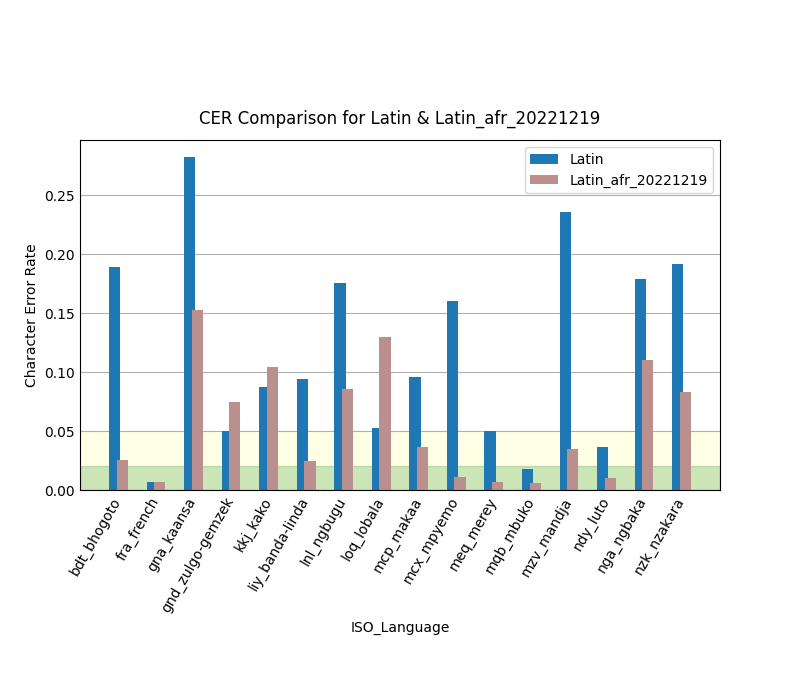
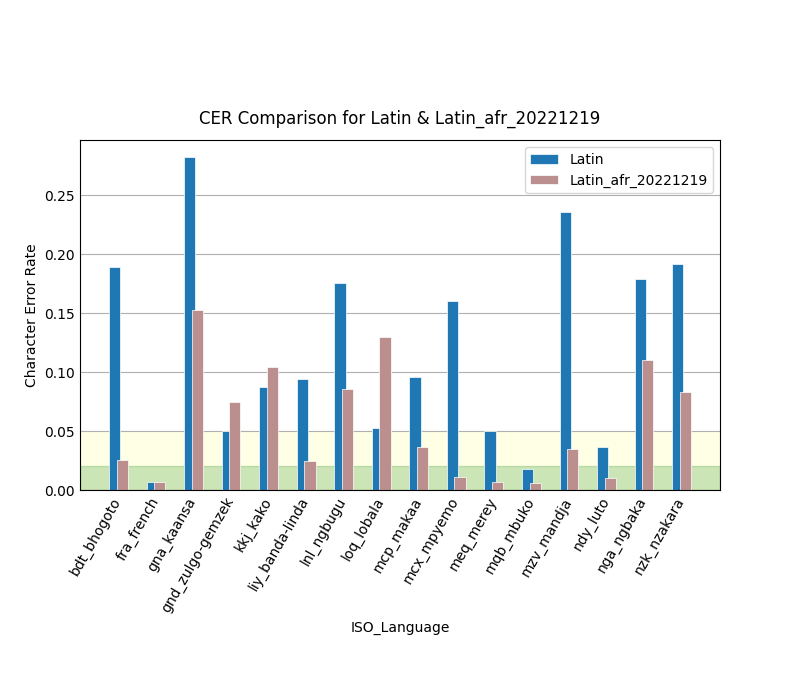
add linewidth & change image

diff --git a/scripts/show-chart.py b/scripts/show-chart.py
@@ -90,6 +90,7 @@ def build_3d_slices(data):
 def plot_bar2d(x, y, z, out_file, title, xlabel, ylabel):
     # Generate and format plot.
     bw = 0.3 # bar width
+    lw = 0.5 # line width
 
     fig, ax = plt.subplots(figsize=(8,7))
 
@@ -102,8 +103,8 @@ def plot_bar2d(x, y, z, out_file, title, xlabel, ylabel):
         lx = title.split('&')[0].split()[-1].strip()    # hack
         lz = title.split('&')[1].strip()                # hack
         plt.xticks(ind+bw/2, x, horizontalalignment='right', rotation=60)
-        ax.bar(ind-0.1, y, width=bw, edgecolor="w", linewidth=0, label=lx)
-        ax.bar(ind+0.1, z, width=bw, edgecolor="w", linewidth=0, facecolor='rosybrown', label=lz)
+        ax.bar(ind-0.1, y, width=bw, edgecolor="w", linewidth=lw, label=lx)
+        ax.bar(ind+0.1, z, width=bw, edgecolor="w", linewidth=lw, facecolor='rosybrown', label=lz)
         plt.legend(loc='best')
     else:
         plt.xticks(horizontalalignment='right', rotation=60)

diff --git a/Testing.md b/Testing.md
@@ -4,9 +4,7 @@
 
 ![Models below 10% CER](data/evaluation/models-below-0.10-CER.png)
 
-![Best Model's Performance by ISO_Language](data/evaluation/best-model-perf-by-lang.png)
-
-![Latin Model's Performance by ISO_Language](data/evaluation/Latin-perf-by-lang.png)
+![Best & Latin Model Performance by ISO_Language](data/evaluation/comp-Latin-Latin_afr_20221219.png)
 
 > - Chart data gathered from [data/evaluation/data.csv](data/evaluation/data.csv)
 > - data.csv populated from evalutation of files in [data/evaluation/\<iso_langname\>](data/evaluation).
